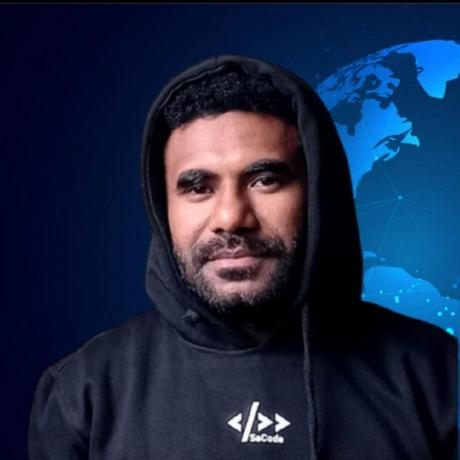
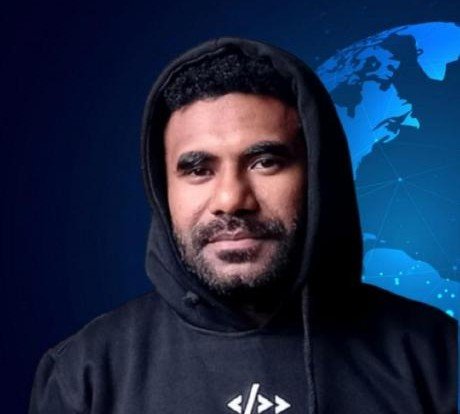
update file index.html

diff --git a/README.md b/README.md
@@ -1,62 +1,85 @@
-<p align="center"><a href="https://laravel.com" target="_blank"> <img width="1919" height="1079" alt="tampilan dashboard" src="https://github.com/user-attachments/assets/2ff70e3d-6a9d-40dd-ac22-fcf3da89f407" />
+# EducasiCode Papua Website
 
-    <img src="https://raw.githubusercontent.com/laravel/art/master/logo-lockup/5%20SVG/2%20CMYK/1%20Full%20Color/laravel-logolockup-cmyk-red.svg" width="400" alt="Laravel Logo">
-</a></p>
+Dokumentasi singkat untuk halaman-halaman dan struktur aset situs EducasiCode Papua.
 
-<p align="center">
-<a href="https://github.com/laravel/framework/actions"><img src="https://github.com/laravel/framework/workflows/tests/badge.svg" alt="Build Status"></a>
-<a href="https://packagist.org/packages/laravel/framework"><img src="https://img.shields.io/packagist/dt/laravel/framework" alt="Total Downloads"></a>
-<a href="https://packagist.org/packages/laravel/framework"><img src="https://img.shields.io/packagist/v/laravel/framework" alt="Latest Stable Version"></a>
-<a href="https://packagist.org/packages/laravel/framework"><img src="https://img.shields.io/packagist/l/laravel/framework" alt="License"></a>
-</p>
+## Ringkasan
 
-## About Laravel
+Proyek ini berisi kumpulan halaman HTML statis yang mendukung tampilan website komunitas dan kursus EducasiCode Papua. Halaman utama, kursus, kontributor, TechShare, kontak, pendaftaran, dan login tersedia di root proyek.
 
-Laravel is a web application framework with expressive, elegant syntax. We believe development must be an enjoyable and creative experience to be truly fulfilling. Laravel takes the pain out of development by easing common tasks used in many web projects, such as:
+## Halaman Utama
 
-- [Simple, fast routing engine](https://laravel.com/docs/routing).
-- [Powerful dependency injection container](https://laravel.com/docs/container).
-- Multiple back-ends for [session](https://laravel.com/docs/session) and [cache](https://laravel.com/docs/cache) storage.
-- Expressive, intuitive [database ORM](https://laravel.com/docs/eloquent).
-- Database agnostic [schema migrations](https://laravel.com/docs/migrations).
-- [Robust background job processing](https://laravel.com/docs/queues).
-- [Real-time event broadcasting](https://laravel.com/docs/broadcasting).
+- `index.html` - Halaman beranda dengan hero, tombol CTA, gambar slider, dan logo partner.
+- `abouts.html` - Halaman About Us yang menjelaskan misi, visi, dan informasi komunitas.
+- `course.html` - Halaman Kelas Kursus dengan detail program, modul, daftar mentor/kontributor, dan tombol pendaftaran.
+- `techshere.html` - Halaman TechShare yang menampilkan inisiatif, kegiatan, dan dukungan teknologi.
+- `contributors.html` - Halaman Profil Contributors yang menampilkan anggota komunitas dan grafik persentase peran.
+- `contact.html` - Halaman kontak dengan formulir pesan.
+- `login.html` - Halaman login UI placeholder.
+- `register.html` - Halaman pendaftaran UI dan formulir pendaftaran.
 
-Laravel is accessible, powerful, and provides tools required for large, robust applications.
+## Fitur Utama
 
-## Learning Laravel
+- Tema gelap/terang dengan tombol toggle.
+- Menu navigasi responsif dan mobile hamburger.
+- Hero image rotasi otomatis di halaman beranda.
+- Modal pendaftaran yang muncul saat tombol `Daftar Sekarang` diklik.
+- Grafik persentase peran `Mentor` dan `Contributor` di halaman contributors.
+- Favicon menggunakan logo `edukasicode.png`.
 
-Laravel has the most extensive and thorough [documentation](https://laravel.com/docs) and video tutorial library of all modern web application frameworks, making it a breeze to get started with the framework. You can also check out [Laravel Learn](https://laravel.com/learn), where you will be guided through building a modern Laravel application.
+## Struktur Proyek
 
-If you don't feel like reading, [Laracasts](https://laracasts.com) can help. Laracasts contains thousands of video tutorials on a range of topics including Laravel, modern PHP, unit testing, and JavaScript. Boost your skills by digging into our comprehensive video library.
+```
+/asset
+  /css
+    style.css
+  /images
+    edukasicode.png
+    sacode.png
+    SAGU-FOUNDATION-FONT-HITAM-1.png
+    /contributors
+      images-Meson.jpeg
+      images Jansen-faidiban.jpg
+      images-samuel.jpg
+      rois-wanimbo.png
+      Mr.Mee.png
+      about-janzen-papuancoders.png
+/asset/js
+  script.js
+/index.html
+/abouts.html
+/course.html
+/techshere.html
+/contributors.html
+/contact.html
+/login.html
+/register.html
+```
 
-## Laravel Sponsors
+## Teknologi
 
-We would like to extend our thanks to the following sponsors for funding Laravel development. If you are interested in becoming a sponsor, please visit the [Laravel Partners program](https://partners.laravel.com).
+- HTML
+- CSS
+- JavaScript
 
-### Premium Partners
+## Cara Menjalankan
 
-- **[Vehikl](https://vehikl.com)**
-- **[Tighten Co.](https://tighten.co)**
-- **[Kirschbaum Development Group](https://kirschbaumdevelopment.com)**
-- **[64 Robots](https://64robots.com)**
-- **[Curotec](https://www.curotec.com/services/technologies/laravel)**
-- **[DevSquad](https://devsquad.com/hire-laravel-developers)**
-- **[Redberry](https://redberry.international/laravel-development)**
-- **[Active Logic](https://activelogic.com)**
+1. Buka file `index.html` di browser Anda.
+2. Atau gunakan server lokal sederhana:
+   - `python -m http.server 8000` (untuk Python 3)
+   - `npx serve .`
+3. Akses `http://localhost:8000`.
 
-## Contributing
+## Catatan Penting
 
-Thank you for considering contributing to the Laravel framework! The contribution guide can be found in the [Laravel documentation](https://laravel.com/docs/contributions).
+- Konten pendaftaran saat ini ditangani oleh modal frontend, tidak terhubung ke backend nyata.
+- Halaman login dan register berfungsi sebagai UI placeholder.
+- Untuk memperbarui gambar hero, gunakan file yang tersedia di `asset/images/contributors`.
 
-## Code of Conduct
+## Pengembangan
 
-In order to ensure that the Laravel community is welcoming to all, please review and abide by the [Code of Conduct](https://laravel.com/docs/contributions#code-of-conduct).
+- `asset/css/style.css` - Styling utama dan responsif.
+- `asset/js/script.js` - Interaksi tema, menu, slider, modal pendaftaran, dan grafik peran.
 
-## Security Vulnerabilities
+---
 
-If you discover a security vulnerability within Laravel, please send an e-mail to Taylor Otwell via [[email redacted]](mailto:[email redacted]). All security vulnerabilities will be promptly addressed.
-
-## License
-
-The Laravel framework is open-sourced software licensed under the [MIT license](https://opensource.org/licenses/MIT).
+Dokumen ini dibuat untuk mendokumentasikan seluruh halaman dan fitur situs EducasiCode Papua saat ini.